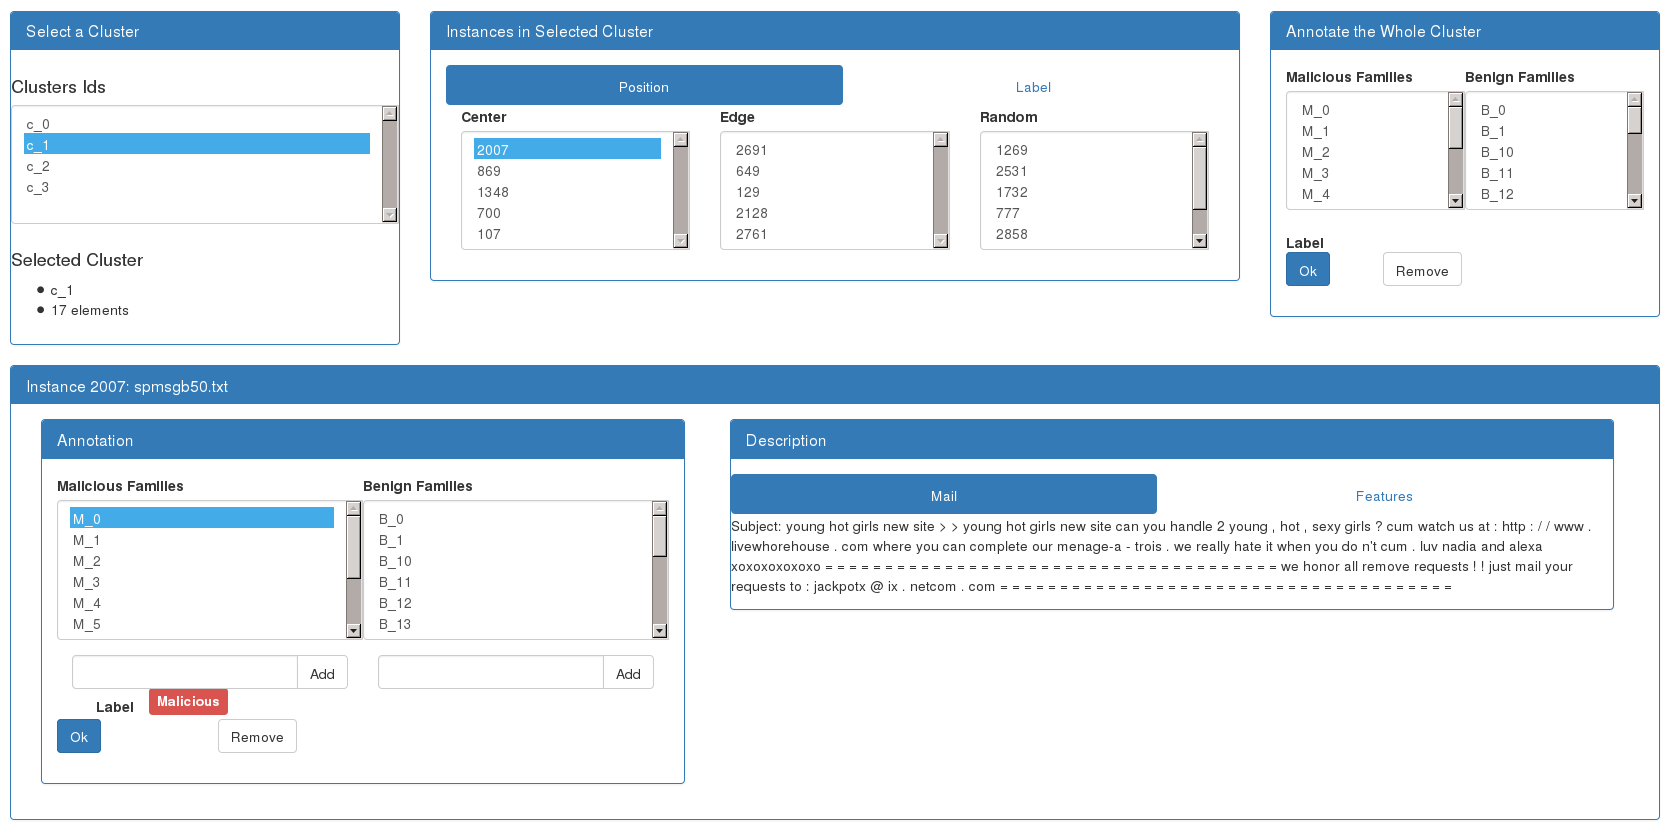
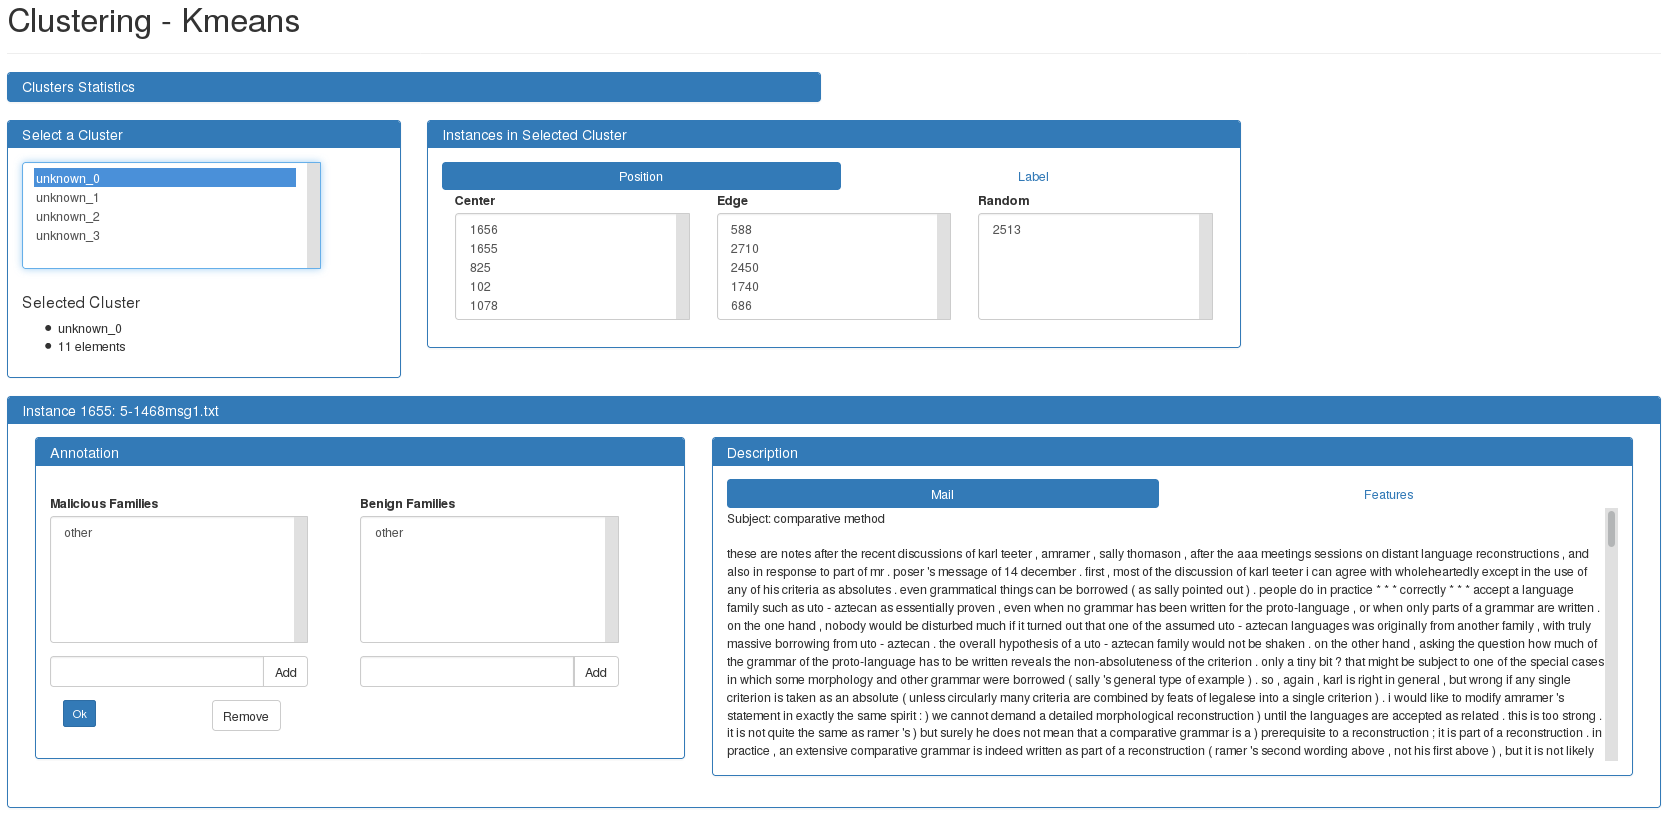
[DOC] improve documentation
- update screen shots for clustering, projection and features analysis
- more explanations for features analysis, projection and clustering

diff --git a/docs/SecuML.projection.rst b/docs/SecuML.projection.rst
@@ -1,13 +1,12 @@
 .. _projection:
 
-##########
-Projection
-##########
+#################################
+Projection for Data Visualization
+#################################
 
-The data are projected into a lower-dimensional space for visualization. The user interface allows to display the instances in a plane defined by two components.
-The instances are not displayed individually but with an hexagonal binning (color from blue to black according to the number of instances in the bin).
-The color of the dot in the middle of each bin (from yellow to red) corresponds to the proportion of known malicious instances in the bin.
-
+The data are projected into a lower-dimensional space for visualization.
+They can be explored by displaying the instances projected in a plane
+defined by two components.
 
 *****
 Usage
@@ -17,12 +16,28 @@ Usage
 | For more information about the available options for a given projection algorithm:
 | ``SecuML_projection <project> <dataset> <algo> -h``.
 
+**Annotations.**
+The annotations
+(specified with ``-a GROUND_TRUTH`` or ``-a <partial_annotations>.csv``)
+are displayed in the GUI to focus on areas with known malicious
+instances. This way, the projections can allow to detect new malicious
+instances close to the known ones.
+
+Moreover, the annotations can be leveraged by
+:ref:`semi-supervised algorithms <proj_semisupervised>`
+through metric learning to bring malicious instances closer.
+This way, it is even easier to detect unknown malicious instances
+with the 2D visualizations.
+
+
 Algorithms Available
 ====================
 
 Unsupervised Algorithms
 -----------------------
 * Pca (`scikit-learn documentation <https://scikit-learn.org/stable/modules/generated/sklearn.decomposition.PCA.html>`__)
+
+.. _proj_semisupervised:
 
 Semi-supervised Algorithms
 --------------------------
@@ -38,3 +53,15 @@ Graphical User Interface
 ************************
 
 .. image:: figs/screen_shots/projection/main.png
+
+The instances are not displayed individually but with an hexagonal binning
+for scalability.
+The color of the bins, from blue to black, corresponds to the number of
+instances in the bins.
+The color of the dot in the middle of each bin (from yellow to red) corresponds
+to the proportion of known malicious instances in the bin.
+The orange and red dots allow to guide the exploration of the data
+close to known malicious instances.
+
+Clicking on an hexagon displays its instances in the
+:ref:`Description panel<instance-visu>` at the bottom.

diff --git a/docs/SecuML.stats.rst b/docs/SecuML.stats.rst
@@ -3,11 +3,44 @@
 Features Analysis
 =================
 
+This module provides an overview of input datasets. It displays
+the boxplot, the histogram and the distribution of the values of each feature.
+If annotations are provided
+(with ``-a GROUND_TRUTH`` or ``-a <partial_annotations>.csv``)
+the analyses are carried out for each label (malicious and benign)
+independently and the discriminating power of each feature is assessed
+with various indicators
+(`chi2 <https://scikit-learn.org/stable/modules/generated/sklearn.feature_selection.chi2.html>`_,
+`f_classif <https://scikit-learn.org/stable/modules/generated/sklearn.feature_selection.f_classif.html>`_, and
+`mutual information <https://scikit-learn.org/stable/modules/generated/sklearn.feature_selection.mutual_info_classif.html>`_).
+
+Features analysis should be executed before running more complex algorithms
+such as clustering or training a classification model.
+Indeed, this module can help detect bugs in the feature extraction process
+(e.g. a feature defined as a ratio that does not have all its values
+between 0 and 1).
+Besides, it allows to identify useless features those variance is null on a
+given dataset.
+
 | *Usage:* ``SecuML_features_analysis <project> <dataset>``.
 | For more information about the available options:
 | ``SecuML_features_analysis <project> <dataset> -h``.
+
 
 Graphical User Interface
 ------------------------
 
 .. image:: figs/screen_shots/stats/main.png
+
+The graphical user interface displays the boxplot, the histogram and the
+distribution of the values of each features.
+
+The features are listed with their ids (see :ref:`Data <Data>`).
+The panel at the bottom left displays the name and the description
+of the feature if provided in a
+:ref:`description file <features_description_file>`.
+
+The features can be sorted alphabetically, according to their discriminating
+power (if annotations are provided) or according to their variance.
+Features with a null variance on the input dataset can be set apart
+with the ``null_variance`` sorting criterion.

diff --git a/docs/SecuML.clustering.rst b/docs/SecuML.clustering.rst
@@ -4,7 +4,9 @@
 Clustering
 ##########
 
-The instances are clustered into a number of clusters specified by the user. Then, the user interface allows to display the instances in each cluster and to annotate them.
+The instances are clustered into a number of clusters specified by the user.
+Then, the user interface allows to display the instances in each cluster and to
+annotate them.
 
 
 *****
@@ -25,3 +27,8 @@ Graphical User Interface
 ************************
 
 .. image:: figs/screen_shots/clustering/main.png
+
+The top panel, Clusters Statistics, can be opened to display the number of
+instances in each cluster. Selecting a cluster from the list
+allows to display its instances in the
+:ref:`Description panel<instance-visu>` at the bottom.

diff --git a/docs/index.rst b/docs/index.rst
@@ -41,19 +41,19 @@ to let security experts focus mainly on detection.
   :caption: Data and Experiments
 
   SecuML.Data
-  SecuML.SpecificVisu
   SecuML.Experiments
+  SecuML.SpecificVisu
 
 .. toctree::
   :maxdepth: 1
   :caption: Available Experiments
 
+  SecuML.stats
   SecuML.DIADEM
   SecuML.ILAB
   SecuML.RCD
   SecuML.clustering
   SecuML.projection
-  SecuML.stats
 
 .. toctree::
   :maxdepth: 1
